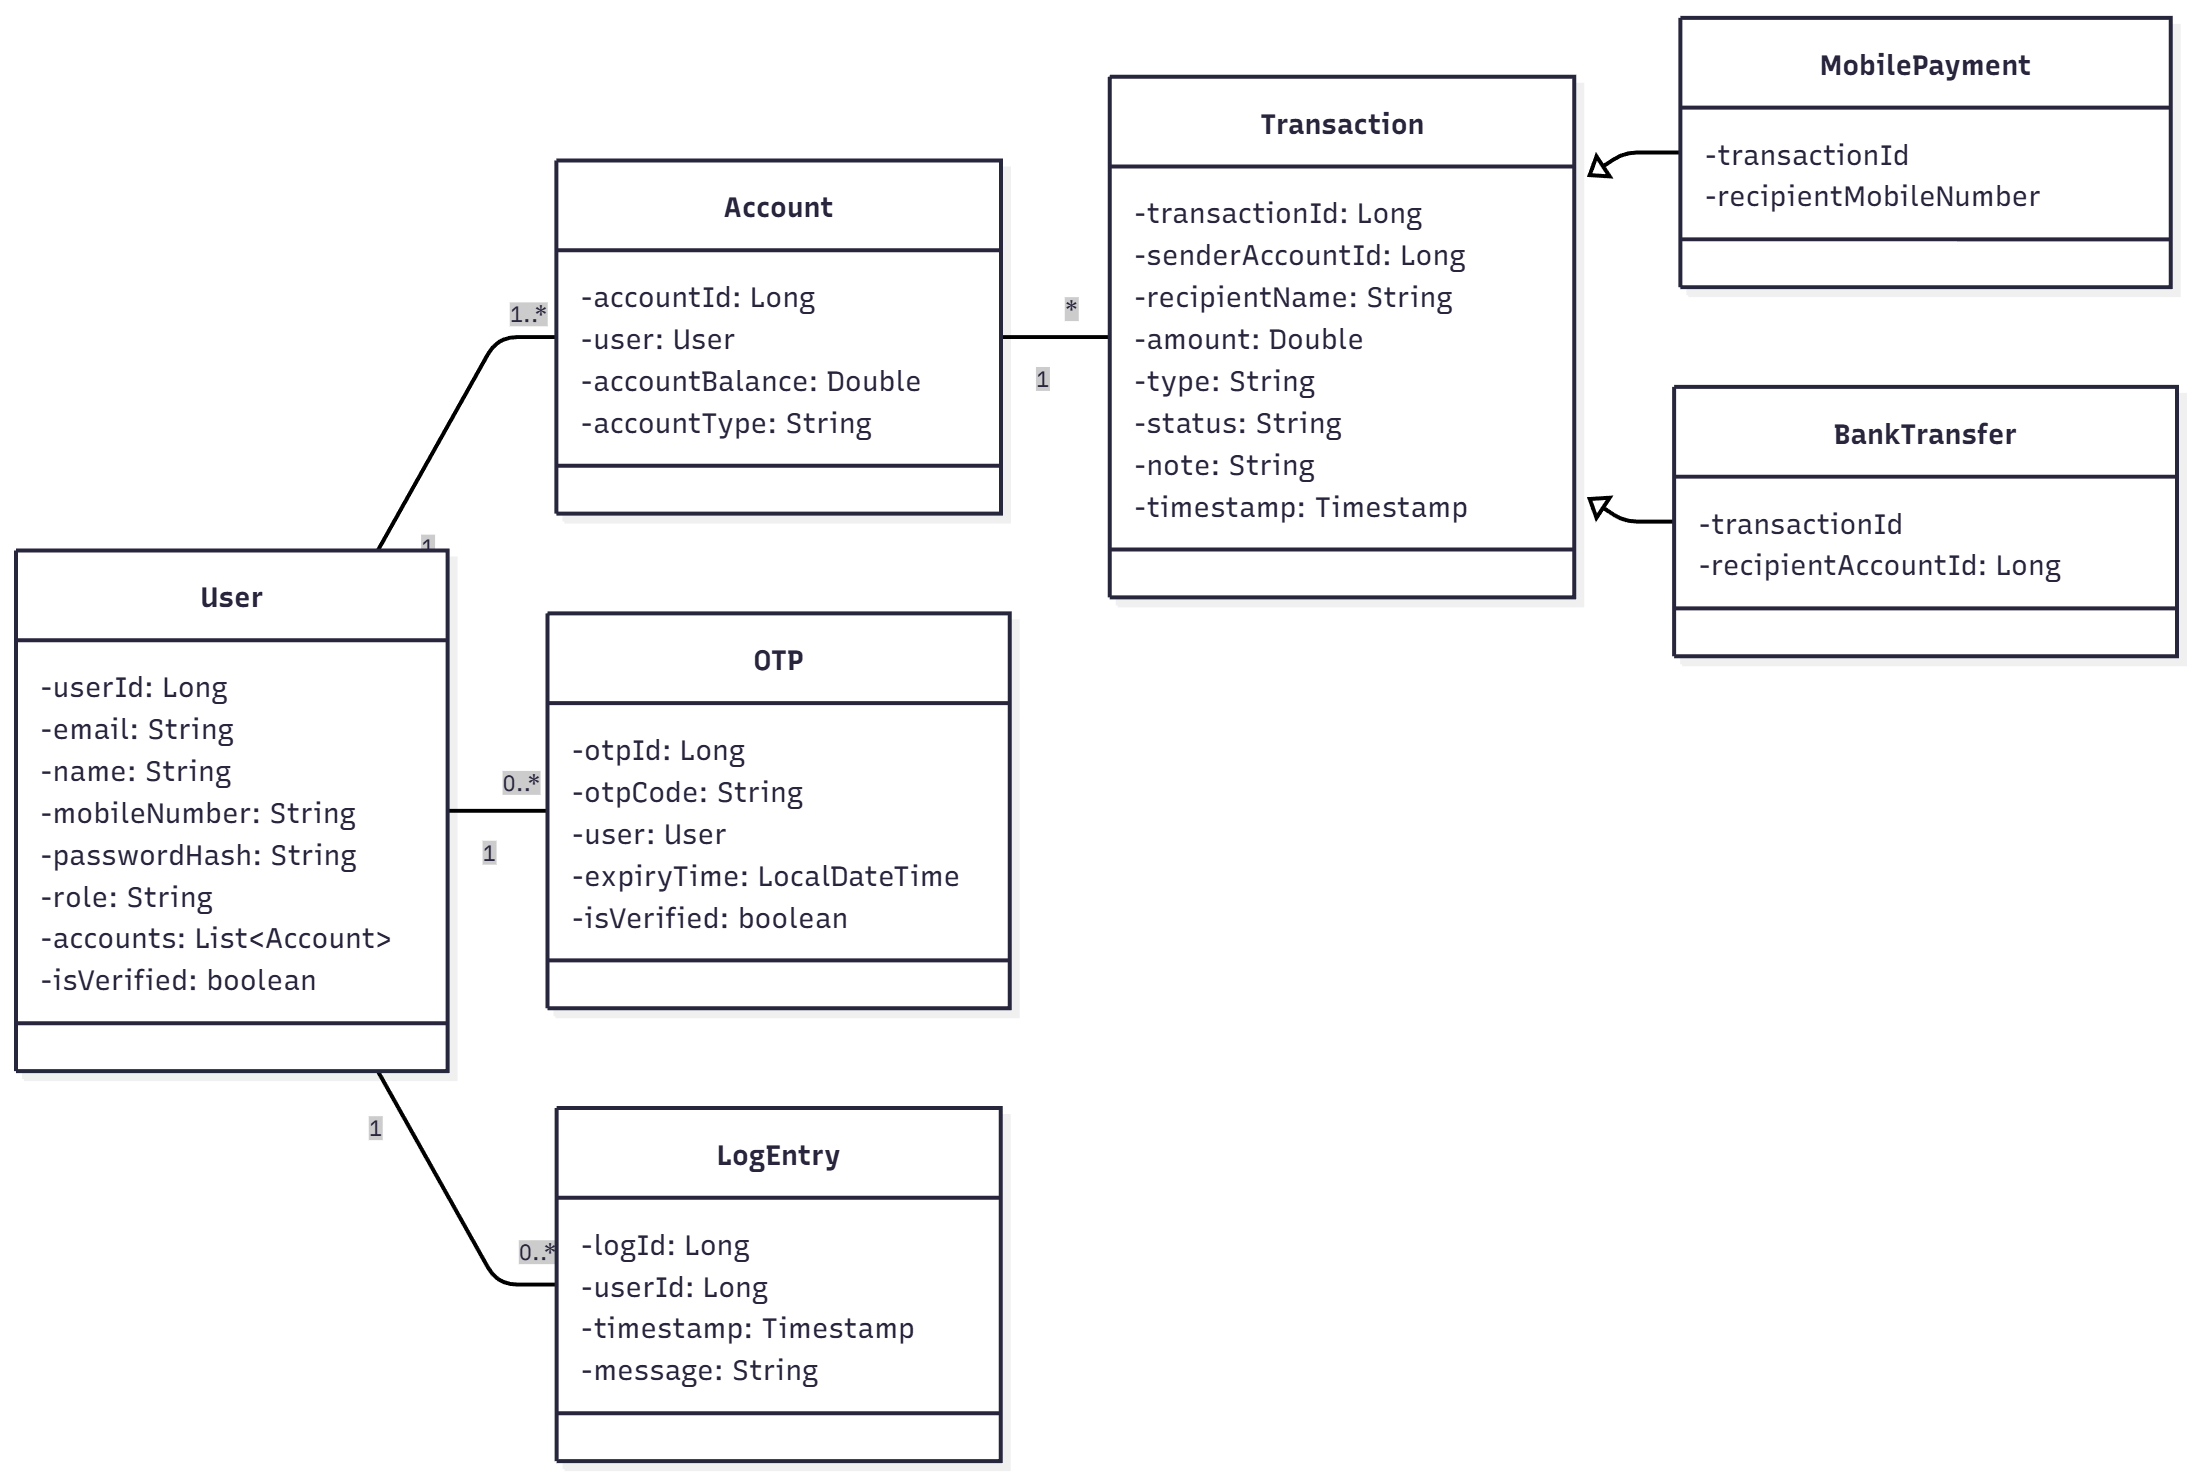
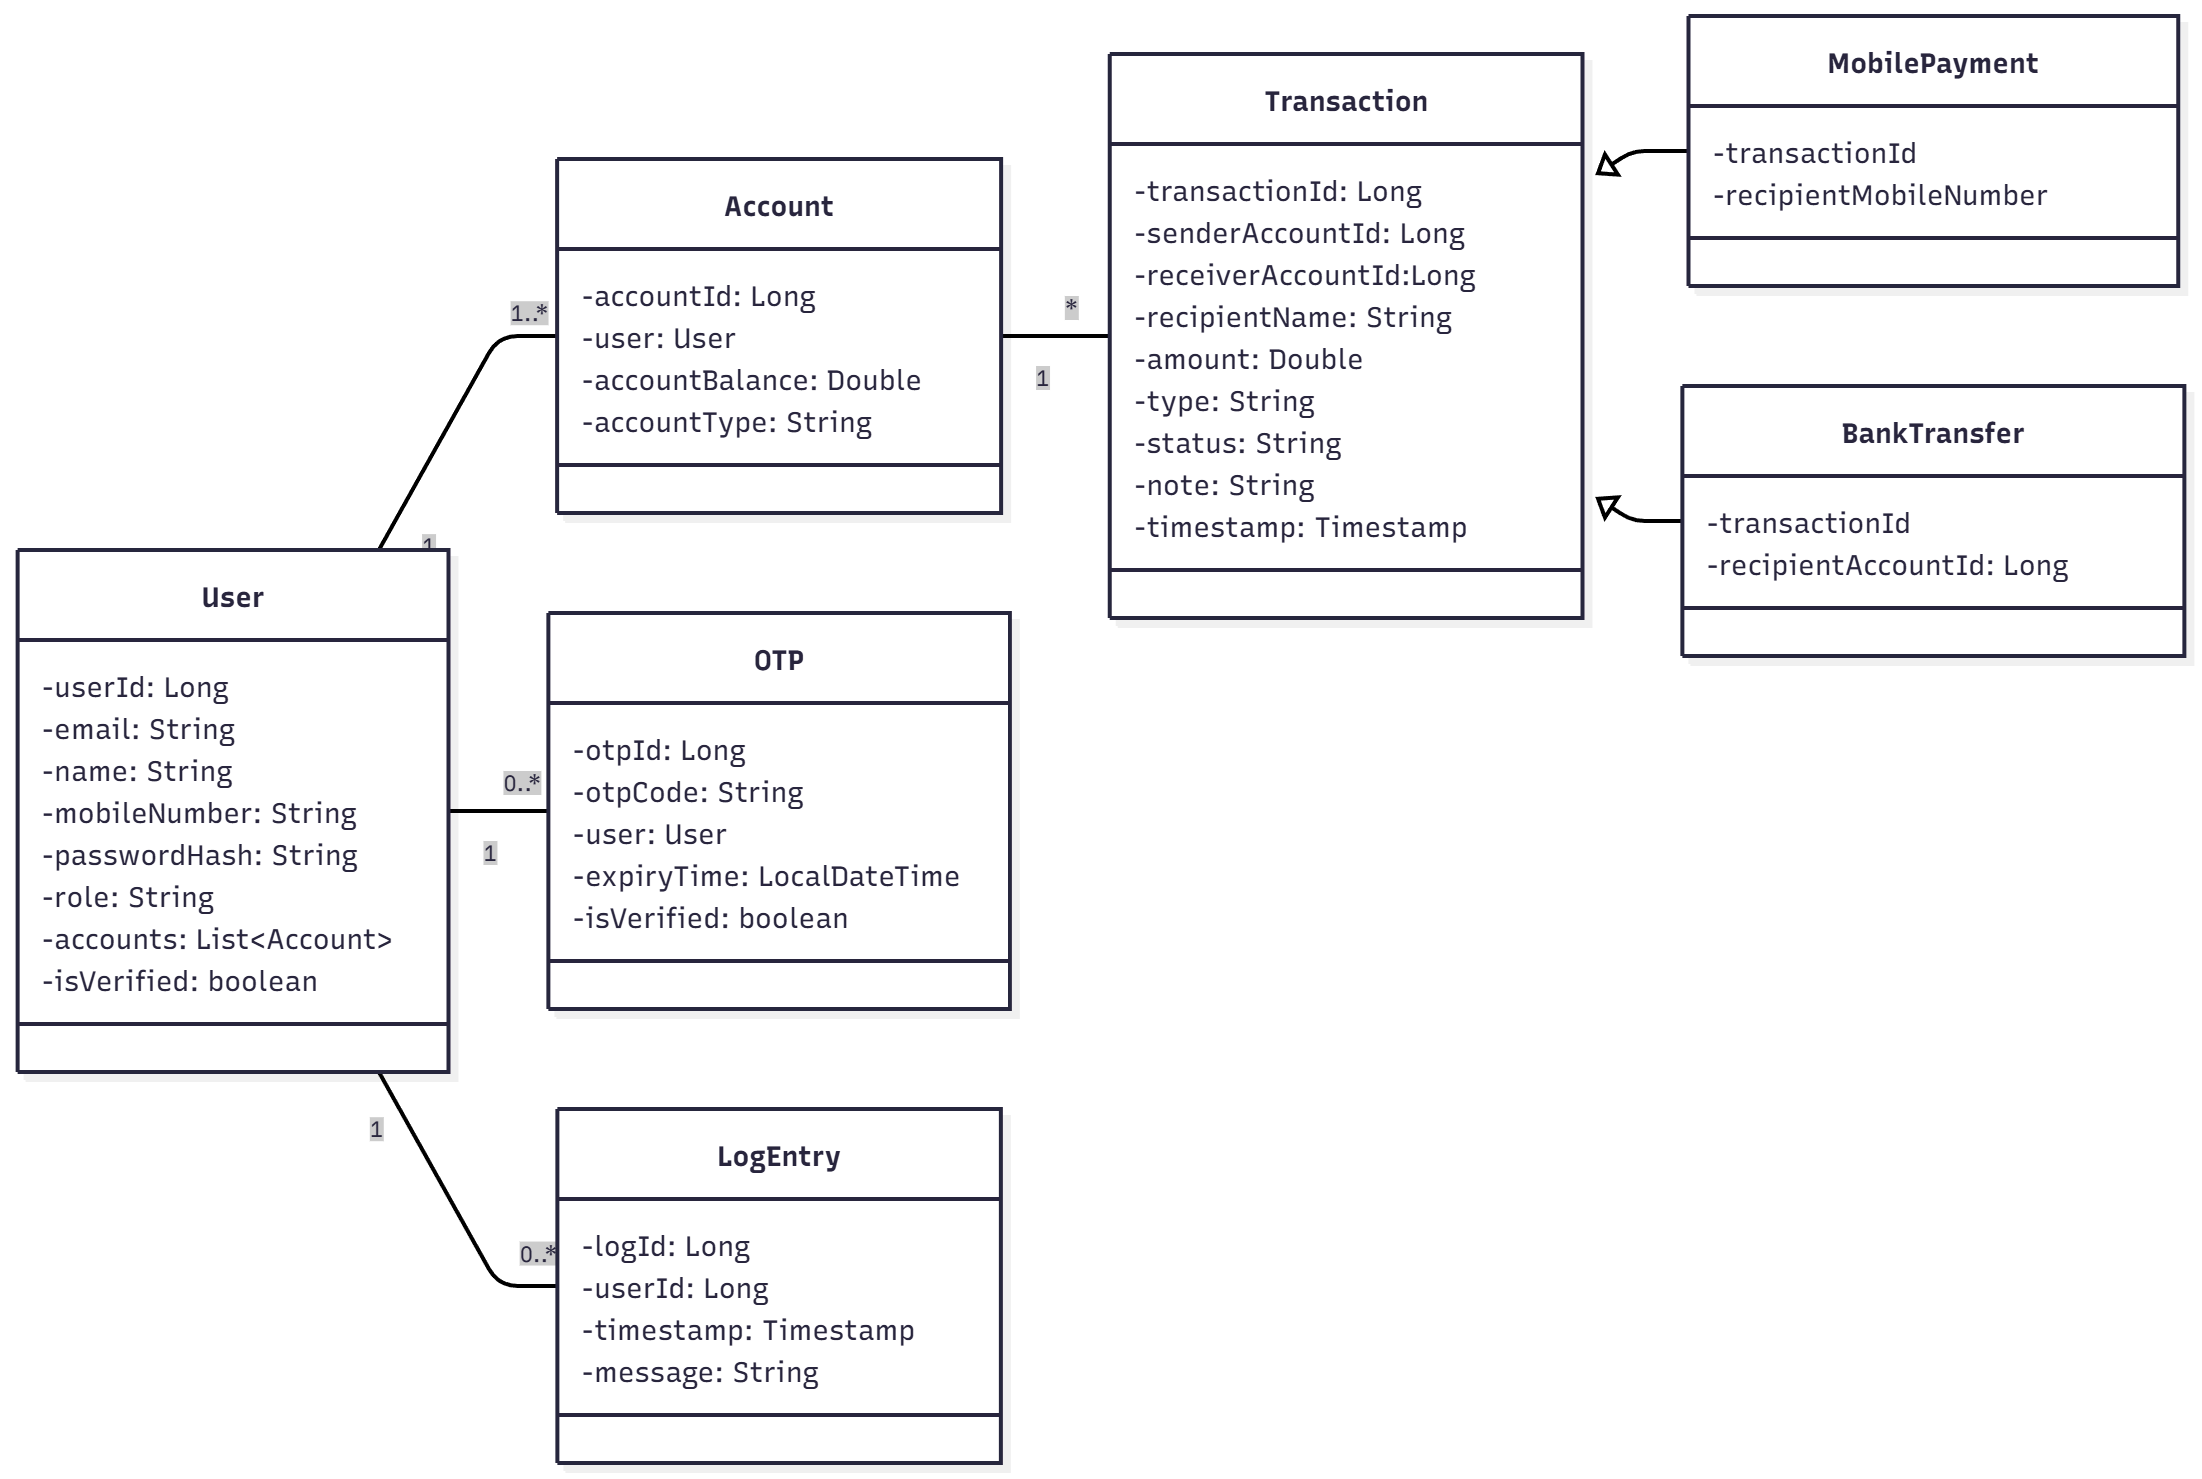
update entity classes

diff --git a/backend/src/main/java/com/intellibank/entity/Transaction.java b/backend/src/main/java/com/intellibank/entity/Transaction.java
@@ -8,22 +8,28 @@ import jakarta.persistence.*;
 
 @Entity
 @Table(name = "transactions")
-public class Transaction {
+@Inheritance(strategy = InheritanceType.JOINED) // or SINGLE_TABLE
+@DiscriminatorColumn(name = "type") // MOBILE or BANK
+public abstract class Transaction {
     @Id
     @GeneratedValue(strategy = GenerationType.IDENTITY)
     private Long transactionId;
 
-    @Column(name="senderAccountId", nullable = false)
-    private Long senderAccountId;
+    
+    @ManyToOne(fetch = FetchType.LAZY)
+    @JoinColumn(name = "sender_account_id", nullable = false)
+    private Account senderAccount;
+
+    
+    @ManyToOne(fetch = FetchType.LAZY)
+    @JoinColumn(name = "receiver_account_id", nullable = false)
+    private Account receiverAccount;
     
     @Column(name="recipientName", nullable = false)
     private String recipientName;
     
     @Column(name="amount", nullable = false)
     private Double amount;
-    
-    @Column(name="type", nullable = false)
-    private String type;		// UPI or BANK
     
     @Column(name="status", nullable = false)
     private String status;		//	PASS or FAIL
@@ -34,32 +40,18 @@ public class Transaction {
     @Temporal(TemporalType.TIMESTAMP)
     private Date timestamp;
     
-    @OneToOne(mappedBy = "transaction", cascade = CascadeType.ALL)
-    @JsonManagedReference
-    private UpiPayment upiPayment;
 
-    @OneToOne(mappedBy = "transaction", cascade = CascadeType.ALL)
-    @JsonManagedReference
-    private BankTransfer bankTransfer;
+    public Transaction() {}
 
-    // Getters and setters for upiPayment and bankTransfer
-    
-    public UpiPayment getUpiPayment() {
-		return upiPayment;
-	}
-
-	public void setUpiPayment(UpiPayment upiPayment) {
-		this.upiPayment = upiPayment;
-	}
-
-	public BankTransfer getBankTransfer() {
-		return bankTransfer;
-	}
-
-	public void setBankTransfer(BankTransfer bankTransfer) {
-		this.bankTransfer = bankTransfer;
-	}
-
+    public Transaction(Account senderAccount, Account receiverAccount, String recipientName, Double Amount, String status, String note) {
+        this.senderAccount = senderAccount;
+        this.receiverAccount = receiverAccount;
+        this.recipientName = recipientName;
+        this.amount = amount;
+        this.status = status;
+        this.note = note;
+        this.timestamp = LocalDateTime.now();
+    }
     // Getters and Setters
 
     public Long getTransactionId() {
@@ -70,12 +62,20 @@ public class Transaction {
         this.transactionId = transactionId;
     }
     
-    public Long getSenderAccountId() {
-        return senderAccountId;
+    public Long getReceiverAccount() {
+        return receiverAccount;
     }
 
-    public void setSenderAccountId(Long senderAccountId) {
-        this.senderAccountId = senderAccountId;
+    public void setReceiverAccountId(Account receiverAccount) {
+        this.receiverAccount = receiverAccount;
+    }
+
+    public Long getSenderAccount() {
+        return senderAccount;
+    }
+
+    public void setSenderAccount(Account senderAccount) {
+        this.senderAccount = senderAccount;
     }
 
     public Long getRecipientName() {
@@ -99,8 +99,8 @@ public class Transaction {
     }
 
     public void setType(String type) {
-        if (!type.equals("UPI") && !type.equals("BANK")) {
-            throw new IllegalArgumentException("Transaction type must be 'UPI' or 'BANK'");
+        if (!type.equals("MOBILE") && !type.equals("BANK")) {
+            throw new IllegalArgumentException("Transaction type must be 'MOBILE' or 'BANK'");
         }
         this.type = type;
     }

diff --git a/backend/src/main/java/com/intellibank/entity/MobilePayment.java b/backend/src/main/java/com/intellibank/entity/MobilePayment.java
@@ -5,22 +5,20 @@ import com.fasterxml.jackson.annotation.JsonBackReference;
 import jakarta.persistence.*;
 
 @Entity
+@DiscriminatorValue("MOBILE")
 @Table(name = "mobile_payment")
-public class MobilePayment extends Transaction{
+public class MobilePayment extends Transaction {
 
-    @OneToOne
-    @JoinColumn(name = "transaction_id")
-    @JsonBackReference
-    private Transaction transaction;
-
+    @Column(name = "recipient_mobile_number", nullable = false)
     private String recipientMobileNumber;
 
-    // Getters and setters
+    public MobilePayment() {}
 
+    public MobilePayment(Account senderAccount, Account receiverAccount, String recipientName, Double amount, String status, String note, String mobileNumber) {
+        super(senderAccount, receiverAccount, recipientName, amount, status, note);
+        this.recipientMobileNumber = mobileNumber;
+    }
+    // Getters and setters
     public Long getRecipientMobileNumber() { return recipientMobileNumber; }
     public void setRecipientMobileNumber(String mobileNumber) { this.recipientMobileNumber = mobileNumber; }
-
-    
-    public Transaction getTransaction() { return transaction; }
-    public void setTransaction(Transaction transaction) { this.transaction = transaction; }
 }

diff --git a/backend/src/main/java/com/intellibank/entity/BankTransfer.java b/backend/src/main/java/com/intellibank/entity/BankTransfer.java
@@ -5,22 +5,21 @@ import com.fasterxml.jackson.annotation.JsonBackReference;
 import jakarta.persistence.*;
 
 @Entity
+@DiscriminatorValue("BANK")
 @Table(name = "bank_transfer")
 public class BankTransfer extends Transaction{
 
-    @OneToOne
-    @JoinColumn(name = "transaction_id")
-    @JsonBackReference
-    private Transaction transaction;
-
+    @Column(name = "receiver_account_number", nullable = false)
     private Long recipientAccountId;
 
-    // Getters and setters
+    public BankTransfer() {}
 
+    public BankTransfer(Account senderAccount, Account receiverAccount, String recipientName, Double amount, String status, String note, Long recipienctAccountId) {
+        super(senderAccount, receiverAccount, recipientName, amount, status, note);
+        this.recipientAccountId = recipienctAccountId;
+    }
+
+    // Getters and setters
     public Long getRecipientAccountId() { return recipientAccountId; }
     public void setRecipientAccountId(Long accountId) { this.recipientAccountId = accountId; }
-
-    
-    public Transaction getTransaction() { return transaction; }
-    public void setTransaction(Transaction transaction) { this.transaction = transaction; }
 }

diff --git a/backend/src/main/java/com/intellibank/entity/User.java b/backend/src/main/java/com/intellibank/entity/User.java
@@ -29,14 +29,14 @@ public class User {
 	@Column(name="is_verified")
 	public boolean isVerified;
 	
-    // TODO: figure out the annotation for this
-    // TODO: getters and setters, constructor
+    
+    @OneToMany(mappedBy = "user")
     public List<Account> accounts;
-
 
 	@Transient
 	private String password;
 
+    // TODO: getters and setters, constructor
 	//Getter,Setters
 	public int getUserId() {
 		return userId;
